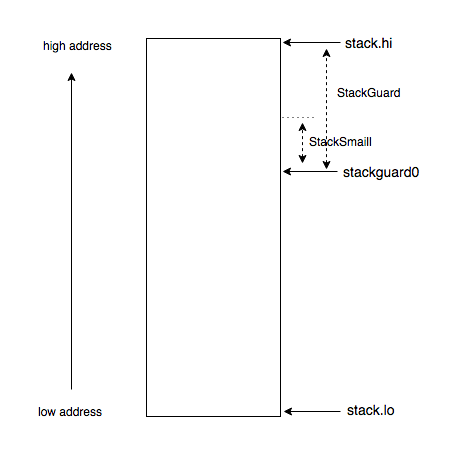
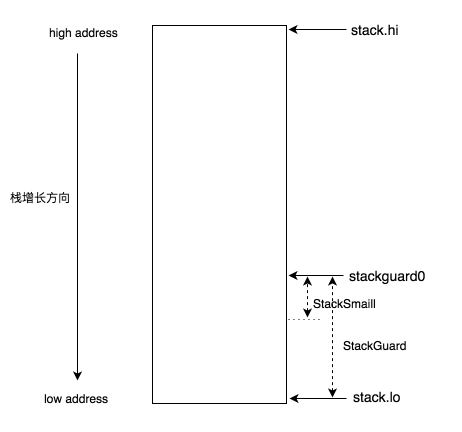
fix routine stack layout

diff --git a/source/_posts/goroutine-stack.md b/source/_posts/goroutine-stack.md
@@ -17,6 +17,7 @@ date: 2017-07-29 17:48:51
 
 <!--more-->
 
+
 带着问题阅读，才能让阅读更加高效，首先让我们看下问题:
 
 1. *goroutine stack多大呢？是固定的还是动态变化的呢?*
@@ -24,6 +25,7 @@ date: 2017-07-29 17:48:51
 3. *对服务有什么影响吗？如何排查栈扩容缩容带来的问题呢?*
 
 问题明确了，我们就开始往下扯呗。
+
 
 ## 栈大小
 
@@ -396,6 +398,7 @@ func shrinkstack(gp *g) {
 
 上面的所有常量和代码，都是基于Linux x86_64架构，go 1.8.3版本的。
 
+
 ## 参考文档
 
 1. <https://blog.cloudflare.com/how-stacks-are-handled-in-go/>
@@ -404,3 +407,9 @@ func shrinkstack(gp *g) {
 4. <https://en.wikipedia.org/wiki/Thread_(computing)>
 5. <https://golang.org/doc/asm>
 6. <https://0xax.github.io/>
+
+## 变更记录
+
+- 2017-08-13
+
+  修复goroutine栈内存布局图片中的地址标注，感谢[@baozh](https://github.com/baozh)的指正。
